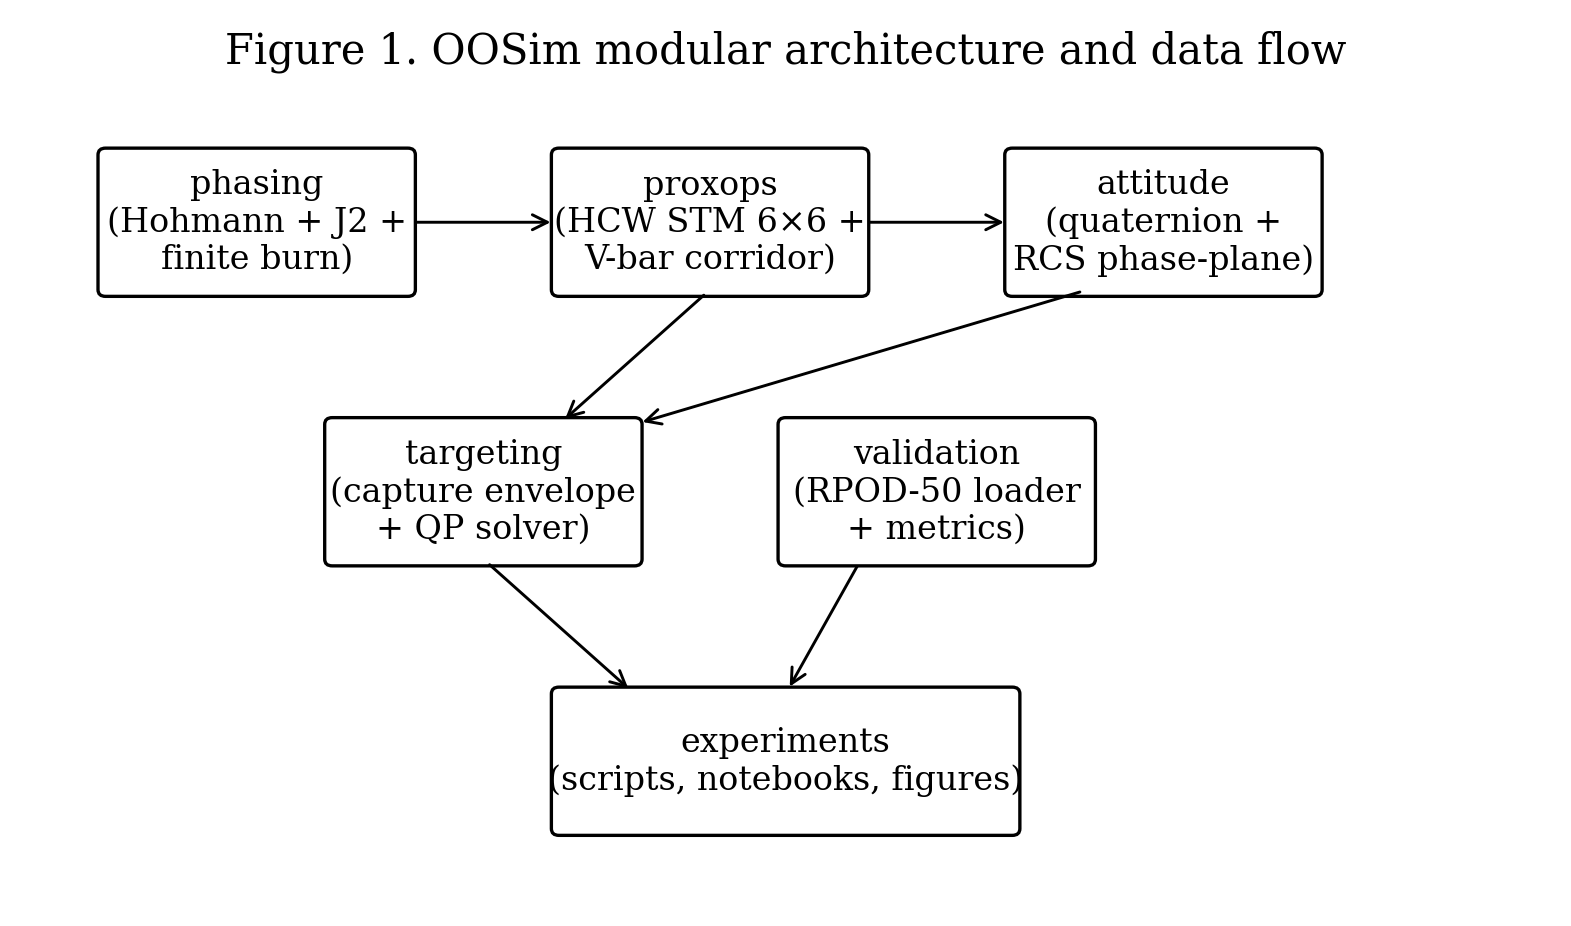
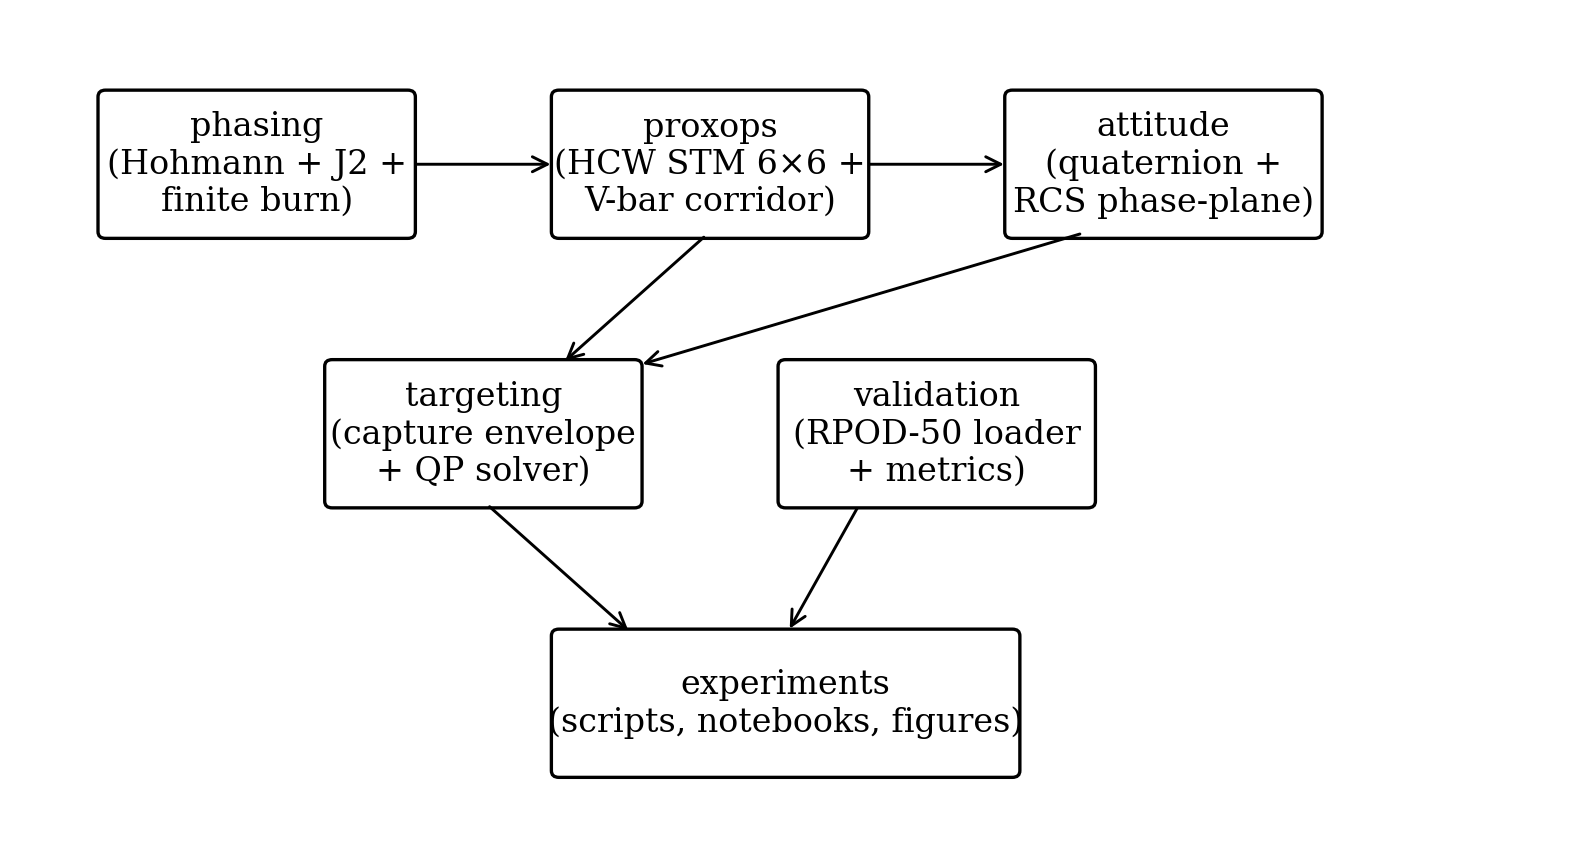
style(figures): drop baked-in English figure titles from the plot scripts
The IAC manuscript renders its own captions, so a title drawn inside the PNG
duplicated it and pinned the figure text to one language. Removes the suptitle
from the eight plot scripts and regenerates the twelve figures; (a)/(b) subplot
labels are kept because the captions refer to them.

Claude-Session: https://claude.ai/code/session_01SVdmYRKxeFUGJy8iZMqy37

diff --git a/experiments/scripts/02_figures.py b/experiments/scripts/02_figures.py
@@ -65,7 +65,6 @@ def fig_architecture():
         ax.annotate("", xy=dst, xytext=src,
                     arrowprops=dict(arrowstyle="->", lw=0.7, color="black"))
 
-    ax.set_title("Figure 1. OOSim modular architecture and data flow", fontsize=10)
     fig.savefig(OUT / "fig01_architecture.png")
     plt.close(fig)
     print(f"  saved {OUT / 'fig01_architecture.png'}")
@@ -110,8 +109,6 @@ def fig_vbar_corridor():
             axs[1].plot(-result.states[:, 1], result.states[:, 2], color=color, lw=1.0)
     axs[0].legend(loc="upper right", fontsize=7)
 
-    fig.suptitle("Figure 2. V-bar approach corridor with three Soyuz-style profiles",
-                 fontsize=10)
     fig.tight_layout()
     fig.savefig(OUT / "fig02_vbar_corridor.png")
     plt.close(fig)
@@ -140,7 +137,6 @@ def fig_capture_envelope():
         ax.set_xlabel("x [m]"); ax.set_ylabel("y [m]"); ax.set_zlabel("z [m]")
         ax.set_box_aspect([1, 1, 1])
 
-    fig.suptitle("Figure 3. Capture envelope presets (workspace ellipsoids)", fontsize=10)
     fig.tight_layout()
     fig.savefig(OUT / "fig03_capture_envelopes.png")
     plt.close(fig)
@@ -158,8 +154,6 @@ def fig_gain_scheduling():
     ax.set_xticks(x); ax.set_xticklabels(phases, fontsize=8)
     ax.set_ylabel("attitude-loop bandwidth [rad/s]")
     ax.set_yscale("log")
-    ax.set_title("Figure 4. Phase-dependent gain-scheduling profile (illustrative)",
-                 fontsize=10)
     fig.tight_layout()
     fig.savefig(OUT / "fig04_gain_scheduling.png")
     plt.close(fig)

diff --git a/experiments/scripts/05_validation_figure.py b/experiments/scripts/05_validation_figure.py
@@ -58,7 +58,6 @@ def fig_validation_comparison():
     ax.set_xticks(x)
     ax.set_xticklabels([n.replace("_", "\n") for n in names], fontsize=7)
     ax.set_ylabel("total $\\Delta v$ [m/s] (log)")
-    ax.set_title("Figure 5. Total $\\Delta v$ comparison: published vs OOSim v3", fontsize=10)
     ax.legend(loc="upper right", fontsize=8)
     fig.tight_layout()
     fig.savefig(OUT / "fig05_validation_comparison.png")
@@ -122,7 +121,6 @@ def fig_mc_heatmap():
             axs[1].text(j, i, f"{p95_pos[i,j]*1000:.1f}", ha="center", va="center",
                         fontsize=8, color="white")
 
-    fig.suptitle("Figure 6. Monte Carlo robustness across noise/latency grid", fontsize=10)
     fig.tight_layout()
     fig.savefig(OUT / "fig06_mc_heatmap.png")
     plt.close(fig)

diff --git a/experiments/scripts/19_sgp4_iss_anchor.py b/experiments/scripts/19_sgp4_iss_anchor.py
@@ -99,9 +99,6 @@ def main():
     ax.add_patch(circle)
     ax.set_xlabel("along-track distance to ISS [m]")
     ax.set_ylabel("R-bar [m]")
-    ax.set_title(f"Figure 10. Soyuz MS-17 v3 terminal phase, SGP4-anchored to ISS orbit\n"
-                 f"(MS-17 epoch 2020-10-14 05:45:04 UTC; ISS altitude {altitude:.0f} km; "
-                 f"final pos err {pos_err*1000:.1f} mm)", fontsize=8)
     ax.invert_xaxis(); ax.legend(fontsize=8); ax.set_aspect("equal")
     fig.tight_layout()
     fig.savefig(OUT / "fig10_sgp4_anchor.png")

diff --git a/experiments/scripts/15_cascade_figure.py b/experiments/scripts/15_cascade_figure.py
@@ -103,9 +103,6 @@ def main():
         axs[2].text(b.get_x() + b.get_width()/2, v * 1.4, f"{v:.0f}",
                     ha="center", va="bottom", fontsize=8)
 
-    fig.suptitle("Figure 9. v0 → v3 architectural cascade at the central noise/latency cell\n"
-                 "(5 cm 3-$\\sigma$ position noise, 100 ms communication latency)",
-                 fontsize=10)
     fig.tight_layout()
     fig.savefig(OUT / "fig09_cascade.png")
     plt.close(fig)

diff --git a/experiments/scripts/20_per_mission_grid.py b/experiments/scripts/20_per_mission_grid.py
@@ -69,9 +69,6 @@ def main():
     for i in range(len(rows), len(axs)):
         axs[i].axis("off")
 
-    fig.suptitle("Figure 11. Per-mission v3 validation: terminal position error "
-                 f"vs capture envelope semi-axis (all {n_missions} inside envelope)",
-                 fontsize=10)
     fig.tight_layout()
     fig.savefig(OUT / "fig11_per_mission_grid.png")
     plt.close(fig)

diff --git a/experiments/scripts/09_diagnostic.py b/experiments/scripts/09_diagnostic.py
@@ -190,7 +190,6 @@ def main():
         ax.invert_xaxis()
         ax.legend(fontsize=7); ax.grid(alpha=0.3)
 
-    fig.suptitle("Figure D1. MPC closed-loop trajectory diagnostic", fontsize=10)
     fig.tight_layout()
     out = Path(__file__).resolve().parent.parent / "figures" / "fig_diagnostic.png"
     fig.savefig(out, dpi=150, bbox_inches="tight")

diff --git a/experiments/scripts/11_v3_figure.py b/experiments/scripts/11_v3_figure.py
@@ -70,8 +70,6 @@ def main():
     axs[1].set_title("(b) Error scaling vs noise")
     axs[1].legend(loc="upper left", fontsize=7)
 
-    fig.suptitle("Figure 8. v3 results — UKF + soft-terminal MPC achieves 100% success",
-                 fontsize=10)
     fig.tight_layout()
     fig.savefig(OUT / "fig08_v3_results.png")
     plt.close(fig)

diff --git a/experiments/scripts/08_hcw_eigenstructure.py b/experiments/scripts/08_hcw_eigenstructure.py
@@ -58,7 +58,6 @@ def main():
     axs[1].set_title("(b) Symplecticity check (numerical)", fontsize=9)
     axs[1].set_yscale("symlog", linthresh=1e-15)
 
-    fig.suptitle("Figure 7. HCW state-transition matrix eigenstructure", fontsize=10)
     fig.tight_layout()
     fig.savefig(OUT / "fig07_hcw_eigenstructure.png")
     plt.close(fig)
